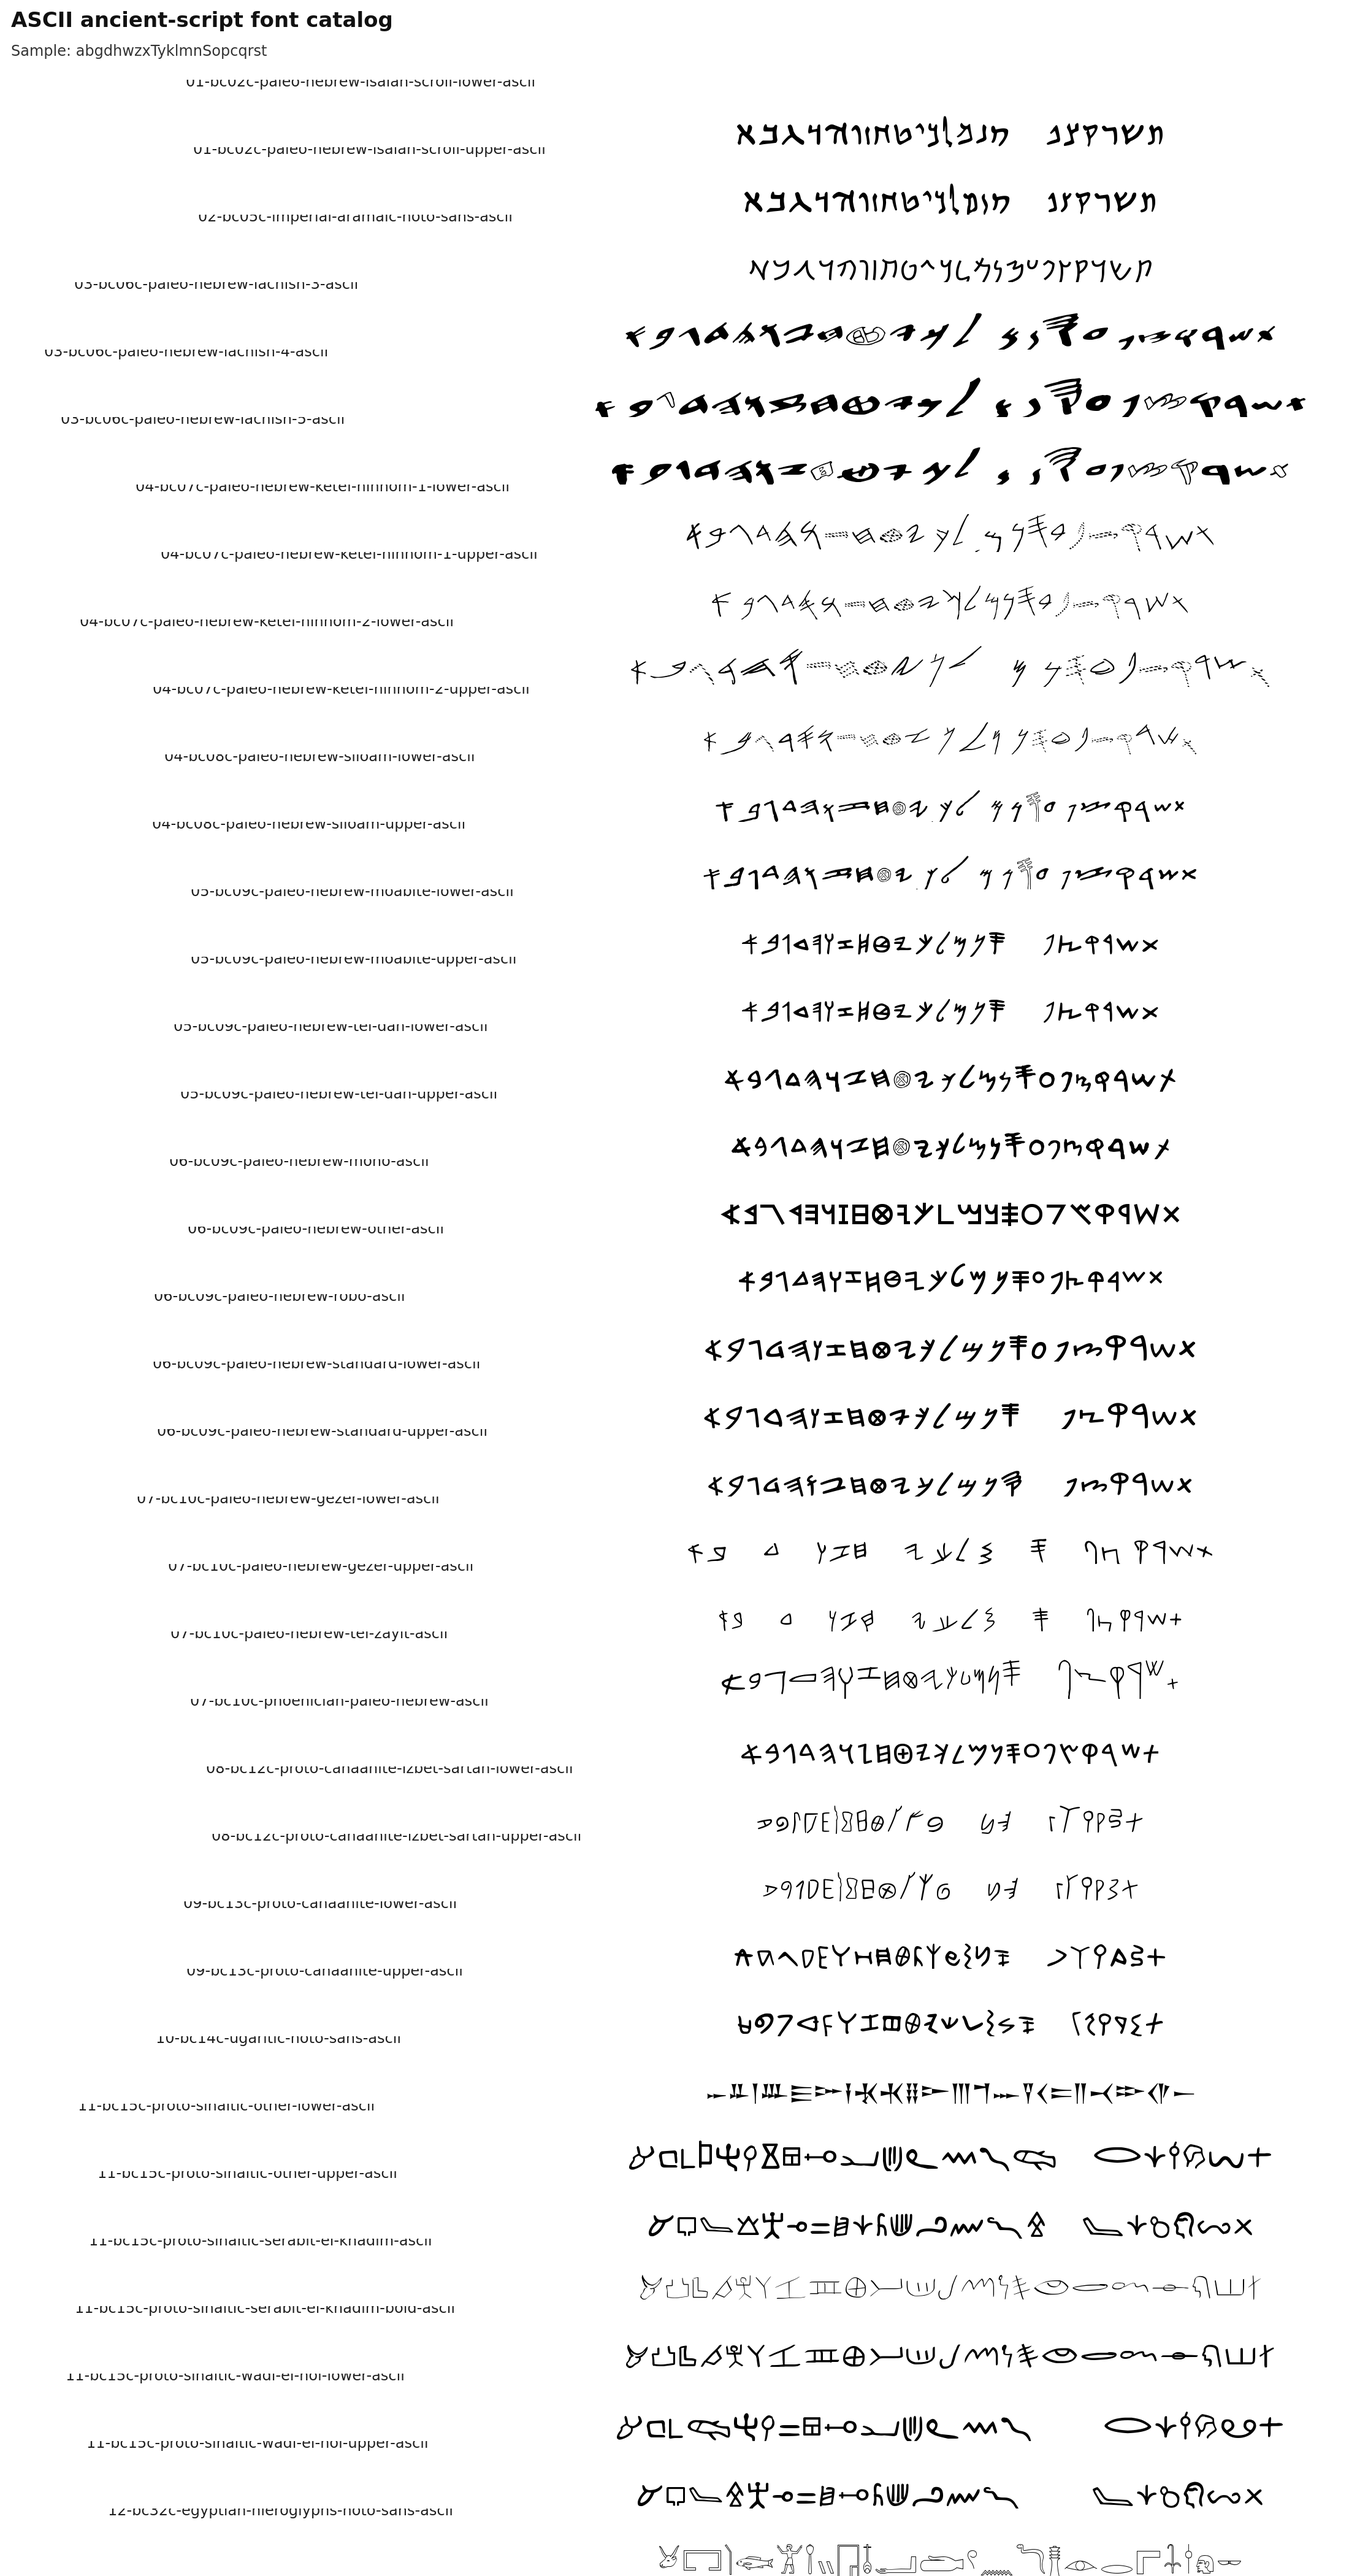
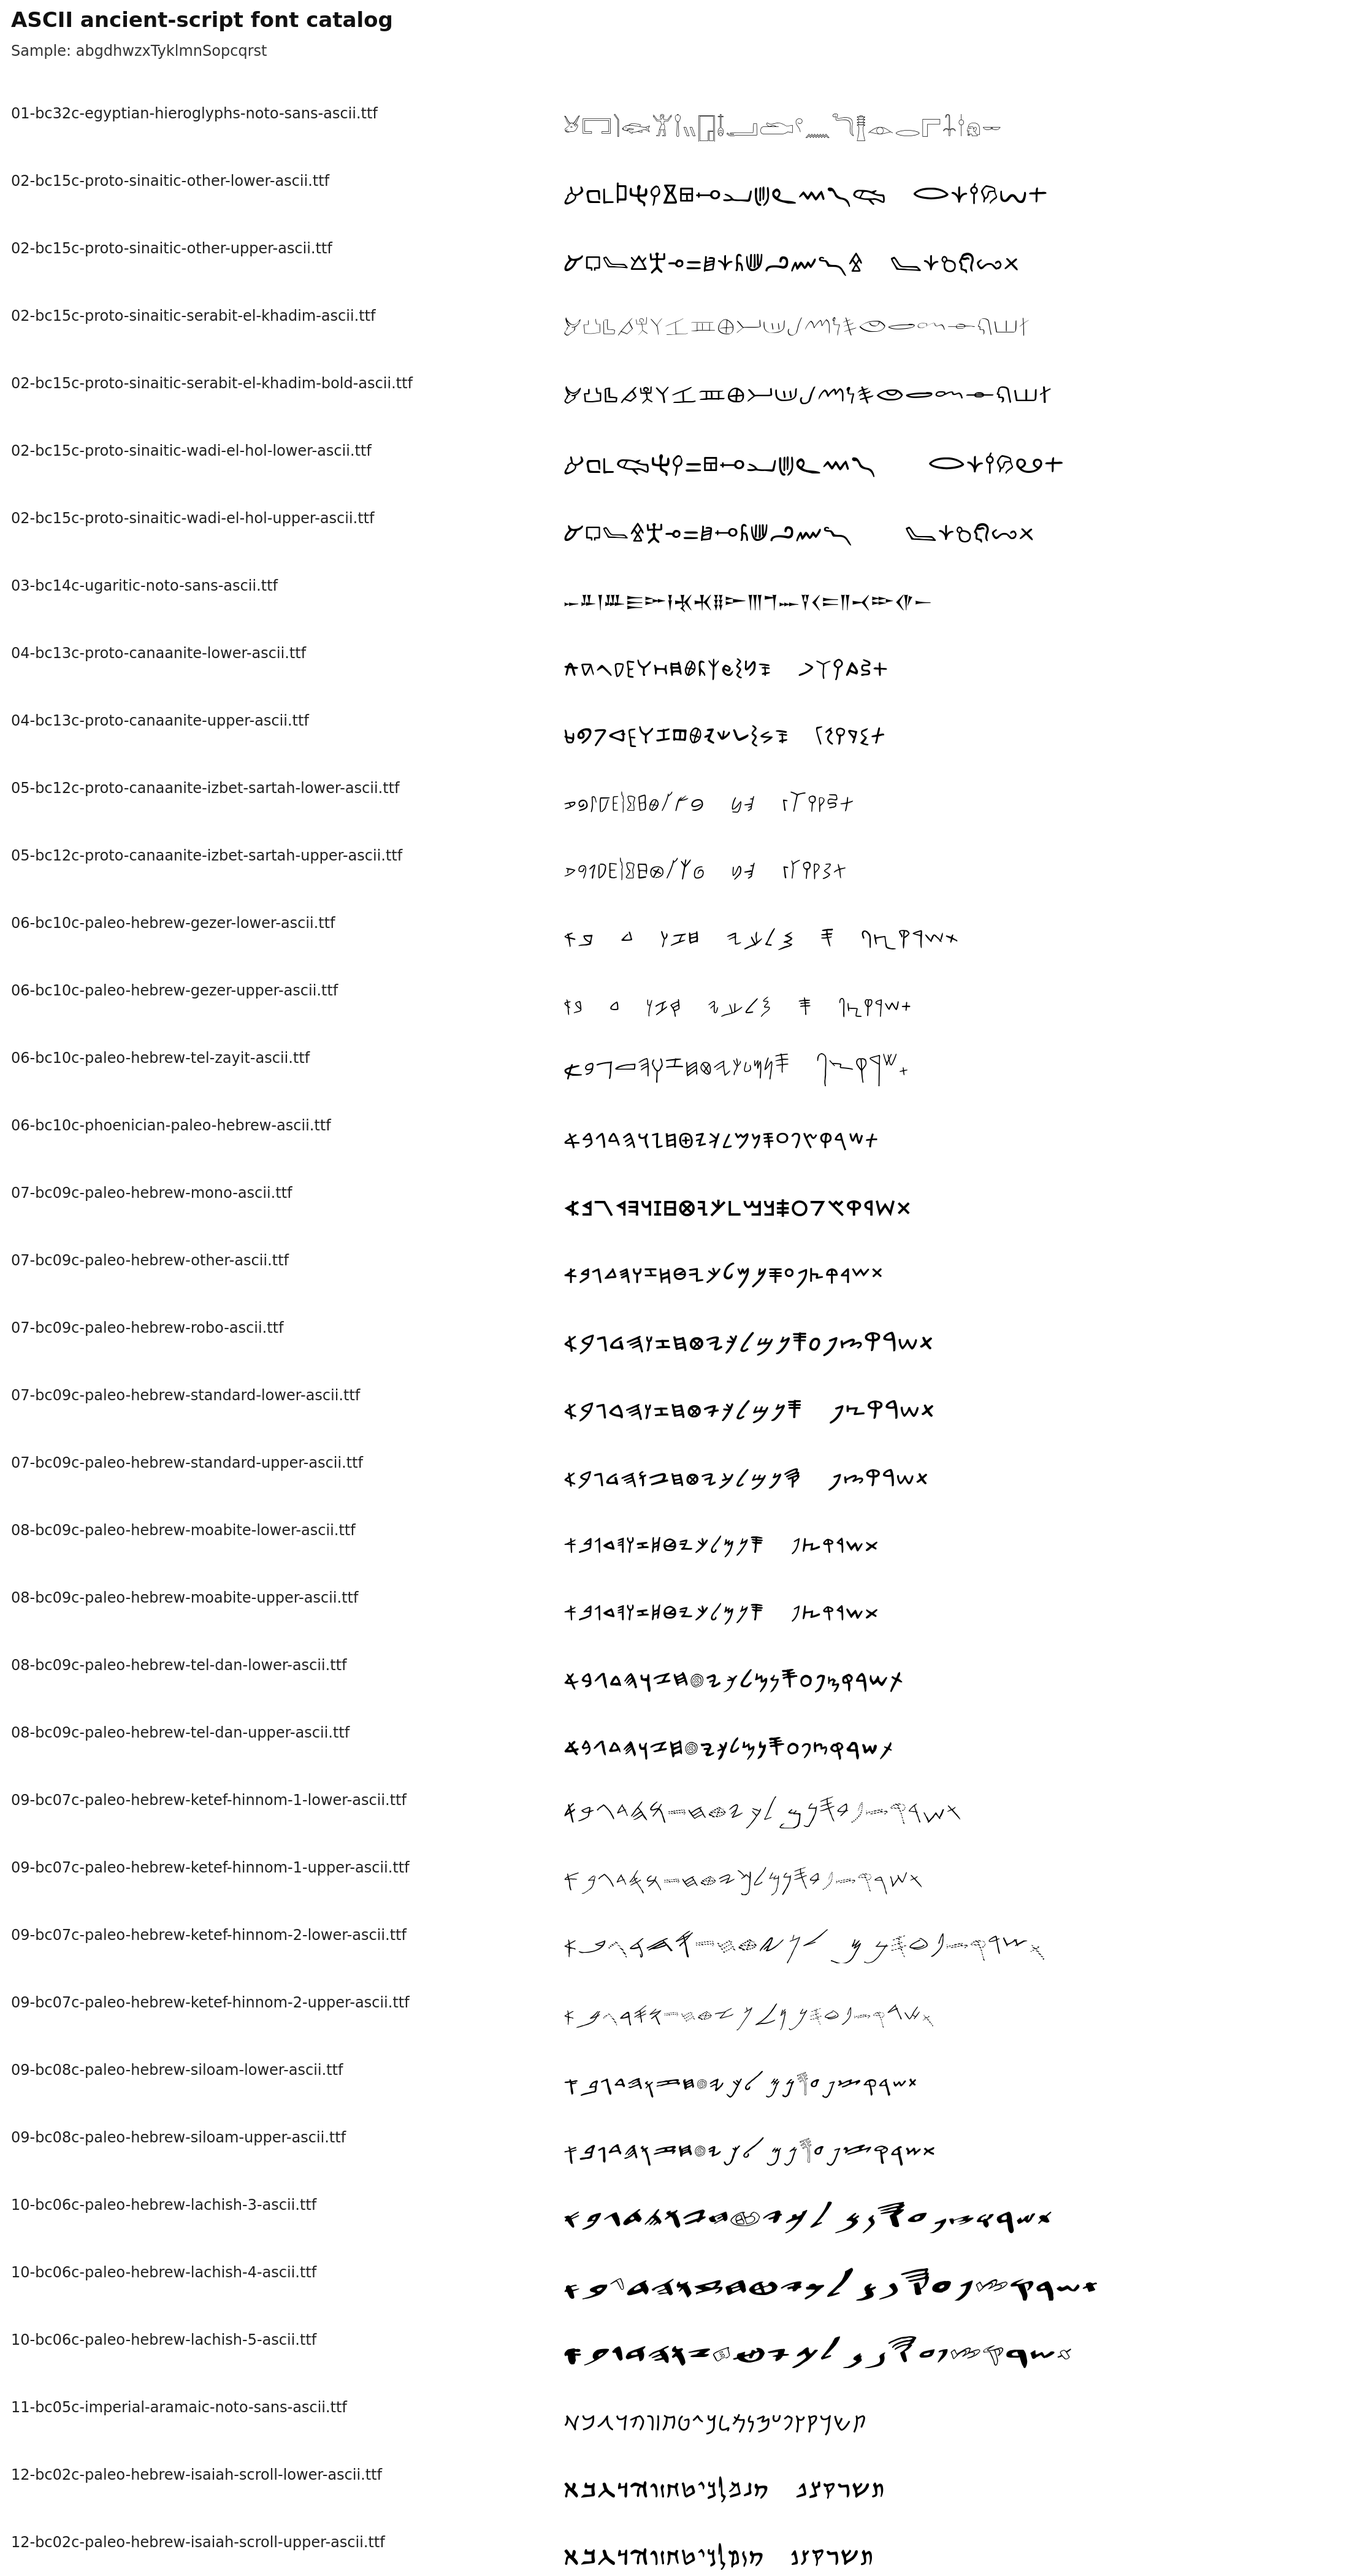
Font test page.

diff --git a/tools/fonts-ascii-catalog.tex b/tools/fonts-ascii-catalog.tex
@@ -1,0 +1,52 @@
+\documentclass[11pt]{article}
+
+\usepackage[margin=0.65in]{geometry}
+\usepackage[no-math]{fontspec}
+\usepackage{xcolor}
+
+\pagestyle{empty}
+\setmainfont{TeX Gyre Pagella}
+\setmonofont{DejaVu Sans Mono}[Scale=MatchLowercase]
+\setlength{\parindent}{0pt}
+\setlength{\parskip}{0pt}
+
+\newcommand{\CatalogSample}{abvgdehwzxHT0ijykKl mMnNSoApPcCqrst}
+\newcommand{\CatalogAlphabet}{ABCDEFGHIJKLMNOPQRSTUVWXYZ\quad abcdefghijklmnopqrstuvwxyz\quad 0}
+
+\newcommand{\FontCatalogRow}[1]{%
+  \par\addvspace{0.75\baselineskip}%
+  {\small\ttfamily\textcolor[HTML]{333333}{#1}}\par
+  \vspace{0.15\baselineskip}%
+  {\fontspec[Path=fonts-ascii/]{#1}\fontsize{34}{42}\selectfont \CatalogSample}\par
+  \vspace{0.05\baselineskip}%
+  {\fontspec[Path=fonts-ascii/]{#1}\fontsize{22}{28}\selectfont \CatalogAlphabet}\par
+  \vspace{0.35\baselineskip}%
+  {\color[HTML]{D8D1C8}\hrule height 0.35pt}%
+}
+
+\begin{document}
+
+{\fontsize{24}{29}\selectfont ASCII Ancient-Script Font Catalog}\par
+\vspace{0.35\baselineskip}
+{\small
+Directory: \texttt{fonts-ascii}\par
+Order: lexicographic filename order\par
+Sample: \texttt{\CatalogSample}\par
+Alphabet: \texttt{ABCDEFGHIJKLMNOPQRSTUVWXYZ abcdefghijklmnopqrstuvwxyz 0}\par
+}
+
+\directlua{
+  local lfs = require("lfs")
+  local files = {}
+  for filename in lfs.dir("fonts-ascii") do
+    if filename:match("%.ttf$") or filename:match("%.otf$") then
+      files[#files + 1] = filename
+    end
+  end
+  table.sort(files)
+  for _, filename in ipairs(files) do
+    tex.print("\\string\\FontCatalogRow{" .. filename .. "}")
+  end
+}
+
+\end{document}
